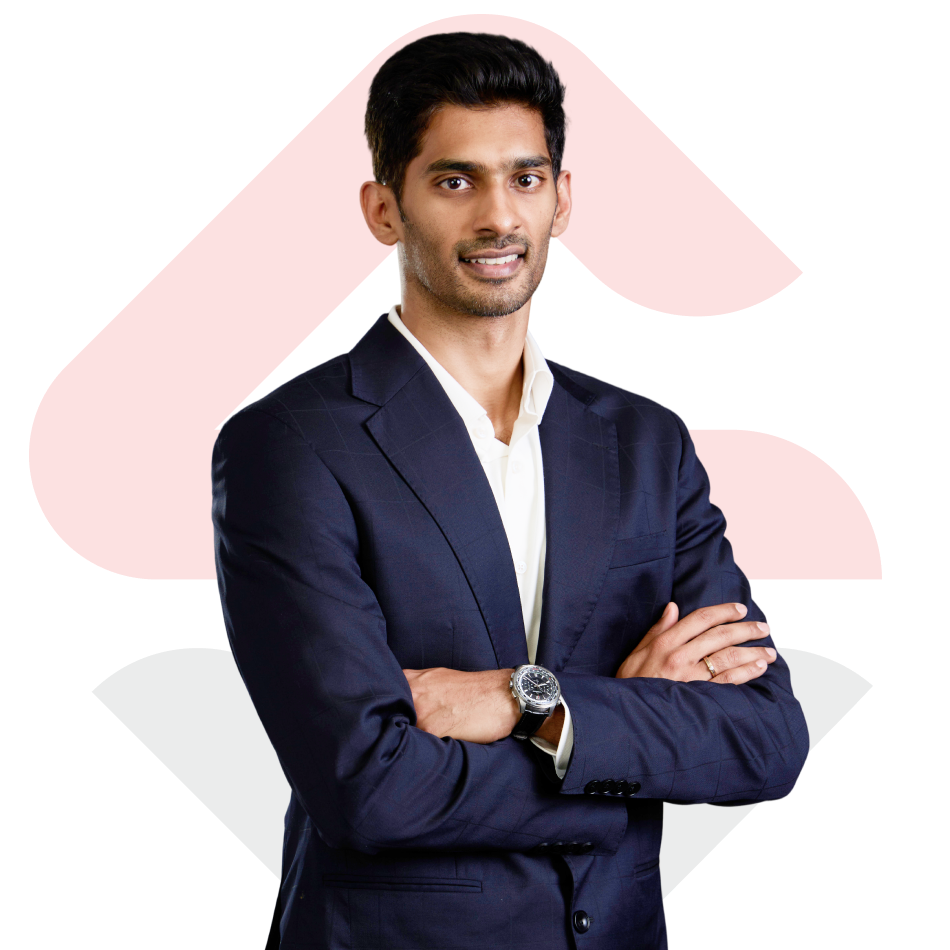
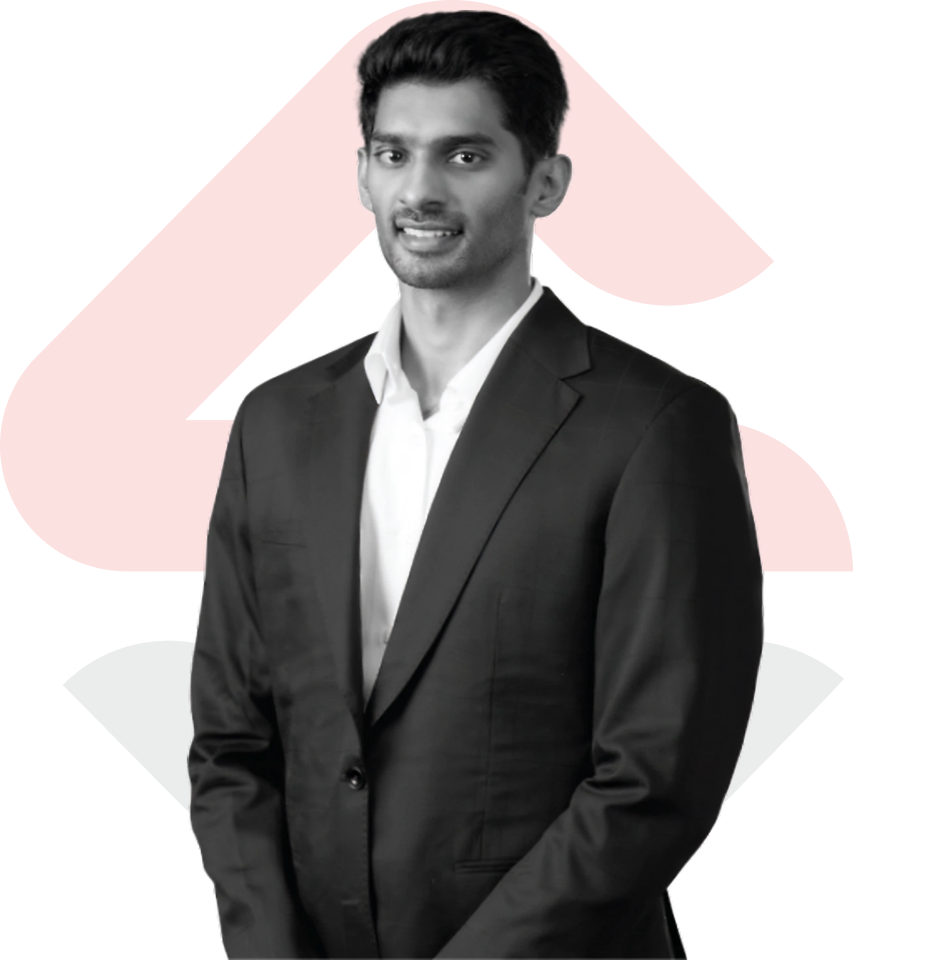
feedback changes

diff --git a/src/app/globals.css b/src/app/globals.css
@@ -4610,6 +4610,7 @@ feature */
     color: #7B7F80; */
     margin: 0;
     padding: 0px 50px;
+    
 }
 
 .mission-vision-text li {
@@ -4677,6 +4678,7 @@ feature */
     .mission-vision-text {
         font-size: 16px;
         padding: 0px;
+        list-style:none;
     }
 }
 
@@ -6179,6 +6181,129 @@ p#builtForSpacesHeading {
         background-color: #ff4d4d;
     }
 
+    .category-carousel-section {
+        background-color: #FFFFFF;
+        padding: 60px 0 40px;
+    }
+    .category-carousel-wrapper {
+        max-width: 100%;
+        margin: 0 auto;
+    }
+    .category-grid {
+        width: 100%;
+        gap: 20px;
+        margin-top: 40px;
+    }
+    .desktop-category-grid {
+        grid-template-columns: repeat(5, minmax(0, 1fr));
+    }
+    .mobile-category-grid {
+        grid-template-columns: repeat(2, minmax(0, 1fr));
+    }
+    .category-card {
+        width: 100%;
+        aspect-ratio: 1 / 1;
+        border-radius: 18px;
+        overflow: hidden;
+        position: relative;
+        box-shadow: 0 10px 24px rgba(0, 0, 0, 0.12);
+        transition: transform 0.3s ease, box-shadow 0.3s ease;
+    }
+    .category-card:hover {
+        transform: translateY(-4px);
+        box-shadow: 0 16px 30px rgba(0, 0, 0, 0.16);
+    }
+    .category-image-container {
+        width: 100%;
+        height: 100%;
+        position: relative;
+        overflow: hidden;
+    }
+    .category-image {
+        width: 100%;
+        height: 100%;
+        object-fit: cover;
+        transition: transform 0.4s ease;
+    }
+    .category-card:hover .category-image {
+        transform: scale(1.03);
+    }
+    .category-tag {
+        position: absolute;
+        bottom: 0;
+        left: 0;
+        right: 0;
+        background: rgba(0, 0, 0, 0.55);
+        color: #fff;
+        padding: 12px 16px;
+        font-size: 14px;
+        font-weight: 600;
+        text-align: center;
+        text-transform: uppercase;
+        letter-spacing: 0.6px;
+    }
+    .category-card.active {
+        opacity: 1;
+        box-shadow: 0 12px 24px rgba(0, 0, 0, 0.18);
+    }
+    .category-image-container {
+        width: 100%;
+        height: 100%;
+        position: relative;
+        overflow: hidden;
+    }
+    .category-image {
+        width: 100%;
+        height: 100%;
+        object-fit: cover;
+        display: block;
+    }
+    .category-tag {
+        position: absolute;
+        top: 0;
+        left: 0;
+        background-color: #dc3545;
+        color: #ffffff;
+        padding: 10px 16px;
+        border-radius: 0 0 8px 0;
+        font-size: 14px;
+        font-weight: 600;
+        font-family: 'DM Sans', sans-serif;
+        z-index: 2;
+    }
+    .category-carousel-mobile {
+        display: block;
+        margin-top: 32px;
+    }
+    .category-carousel-mobile-controls {
+        display: flex;
+        align-items: center;
+        justify-content: space-between;
+        gap: 12px;
+    }
+    .category-carousel-mobile-wrapper {
+        display: flex;
+        gap: 12px;
+        width: calc(100% - 120px);
+    }
+    .category-carousel-mobile .category-card {
+        width: 46%;
+        height: 220px;
+        box-shadow: 0 4px 12px rgba(0, 0, 0, 0.14);
+    }
+    .category-carousel-mobile .category-card:not(.mobile-visible) {
+        display: none;
+    }
+    .category-carousel-mobile .category-card:hover,
+    .category-carousel-mobile .category-card.active:hover,
+    .category-carousel-mobile .category-card.active {
+        transform: none;
+    }
+    .category-carousel-mobile .category-tag {
+        font-size: 14px;
+        padding: 8px 14px;
+    }
+
     .built-for-spaces-scroll-wrapper {
         gap: 20px;
         padding: 0;
@@ -7341,9 +7466,7 @@ p#builtForSpacesHeading {
 }
 
 .image-wrapper {
-    background: white;
-
-    box-shadow: 0 5px 15px rgba(0, 0, 0, 0.05);
+   
     transition: transform 0.3s ease;
 }
 

diff --git a/src/components/ProductSeriesTemplate.js b/src/components/ProductSeriesTemplate.js
@@ -16,6 +16,8 @@ export default function ProductSeriesTemplate({
   spaces,
   personalisationHead,
   personalisationChoices,
+  personalisationChoicesDuplicate,
+  categories,
   safetyIntroText,
   safetyFeatures,
 }) {
@@ -43,6 +45,13 @@ export default function ProductSeriesTemplate({
       : seriesName && seriesName.toLowerCase().includes("vl")
       ? defaultVLChoices
       : defaultSLChoices;
+
+  const duplicateChoices =
+    personalisationChoicesDuplicate && personalisationChoicesDuplicate.length
+      ? personalisationChoicesDuplicate
+      : choices;
+
+  const categoryItems = categories && categories.length ? categories : [];
 
   // 1. Initial GSAP state setup (runs instantly on mount to prevent any flash/glitch)
   useLayoutEffect(() => {
@@ -334,6 +343,47 @@ export default function ProductSeriesTemplate({
         </div>
       </section>
 
+      {/* Category Carousel Section */}
+      {categoryItems.length > 0 && (
+        <section className="category-carousel-section">
+          <div className="container-fluid">
+            <div className="category-carousel-wrapper">
+              <div className="built-for-spaces-header">
+                <p className="section-2-tagline reveal-heading" data-reveal-delay="0.6">
+                  <span className="section-2-dot" aria-hidden="true"></span>
+                  Categories
+                </p>
+                <h2 className="built-for-spaces-heading reveal-heading" data-reveal-delay="0.6">
+                  Explore By Category
+                </h2>
+              </div>
+
+              <div className="category-grid desktop-category-grid d-none d-md-grid">
+                {categoryItems.map((item, idx) => (
+                  <div className="category-card" key={idx}>
+                    <div className="category-image-container">
+                      <img src={item.image} alt={item.title} className="category-image" />
+                      <div className="category-tag">{item.title}</div>
+                    </div>
+                  </div>
+                ))}
+              </div>
+
+              <div className="category-grid mobile-category-grid d-grid d-md-none">
+                {categoryItems.map((item, idx) => (
+                  <div className="category-card" key={idx}>
+                    <div className="category-image-container">
+                      <img src={item.image} alt={item.title} className="category-image" />
+                      <div className="category-tag">{item.title}</div>
+                    </div>
+                  </div>
+                ))}
+              </div>
+            </div>
+          </div>
+        </section>
+      )}
+
       {/* Personalisation Choices Section */}
       <section className="personalisation-choices-section container-fluid">
         <div className="personalisation-choices">
@@ -438,7 +488,7 @@ export default function ProductSeriesTemplate({
 
           <div className="personalisation-carousel page-width d-none d-md-block" style={{ marginTop: "40px" }}>
             <div className="row justify-content-center">
-              {choices.map((choice, idx) => (
+              {duplicateChoices.map((choice, idx) => (
                 <div
                   className="col-lg-4 col-md-6 mb-4 choice-card-anim"
                   key={`duplicate-${idx}`}
@@ -449,9 +499,9 @@ export default function ProductSeriesTemplate({
                 >
                   <div className="choice-card">
                     <div className="image-wrapper">
-                      <img src={choice.image} alt={choice.title} className="choice-img" />
+                      <img src={choice.image} alt={choice.title || `choice-${idx}`} className="choice-img" />
                     </div>
-                    <p className="choice-title">{choice.title}</p>
+                    {choice.title && <p className="choice-title">{choice.title}</p>}
                   </div>
                 </div>
               ))}

diff --git a/src/app/products/slseries/page.js b/src/app/products/slseries/page.js
@@ -40,20 +40,34 @@ const slSpecifications = [
 const slSpaces = [
   { image: "/img/sl-villas.png", title: "Villas" },
   { image: "/img/sl-Duplexes.png", title: "Duplexes" },
-  { image: "/img/sl-Retrofits.png", title: "Retrofits" },
   { image: "/img/sl-clinics.png", title: "Clinics" }
+];
+
+const slCategories = [
+  { image: "/img/sl-villas.png", title: "Villas" },
+  { image: "/img/sl-Duplexes.png", title: "Duplexes" },
+  { image: "/img/sl-clinics.png", title: "Clinics" },
+  { image: "/img/sl-Retrofits.png", title: "Retrofits" },
+  { image: "/img/vl-Office.jpeg", title: "Offices" },
+  { image: "/img/vl-Boutique.jpeg", title: "Boutiques" },
+  { image: "/img/vl-upscale-homes.jpeg", title: "Upscale Homes" },
+  { image: "/img/urbanx.png", title: "Urban Spaces" }
 ];
 
 const slPersonalisationhead = [
   "With the SL Series, you don't just choose an elevator, you shape it. Choose cabin materials, textures, lighting and panel finishes to suit your home. Engineered as a Home/Villas lift, the SL Series installs without a separate machine room, even in existing structures."
-];
+]
 
 const slPersonalisation = [
-  { image: "/img/stainless.png", title: "Stainless steel or mild steel (MS) cabin finishes" },
-  { image: "/img/automatic.png", title: "Convert manual lifts to automatic lifts." },
-  { image: "/img/funtional.png", title: "Functional and aesthetic lighting options" }
+  { image: "/img/glasscabin.jpeg" },
+  { image: "/img/stainlesssteel.png" },
+  { image: "/img/designerrosegold.png" }
 ];
-
+const slPersonalisationDuplicate = [
+  { image: "/img/doortype-1.jpeg" },
+  { image: "/img/doortype-2.jpeg" },
+  { image: "/img/doortype-3.jpeg" }
+];
 const slSafetyFeatures = [
   {
     icon: "/img/sensor-icon.png",
@@ -93,6 +107,8 @@ export default function SLSeriesPage() {
       specifications={slSpecifications}
       spaces={slSpaces}
       personalisationChoices={slPersonalisation}
+      personalisationChoicesDuplicate={slPersonalisationDuplicate}
+      categories={slCategories}
       personalisationHead={slPersonalisationhead}
       safetyIntroText=""
       safetyFeatures={slSafetyFeatures}

diff --git a/src/app/about/AboutClient.js b/src/app/about/AboutClient.js
@@ -394,7 +394,7 @@ With over 3,500 + elevators installed, we continue to grow through quality engin
                 
               </h2>
               <ul className="mission-vision-text reveal-heading" id="missionList" data-reveal-delay="0.8">
-                <li>
+                <li style={{ listStyleType: "none" }}>
                   <p>
                   To build a trusted, future-ready mobility brand that elevates everyday living through safety, quality, and engineering excellence.
                   </p>
@@ -548,14 +548,15 @@ With over 3,500 + elevators installed, we continue to grow through quality engin
               <div className="col-lg-6">
                 <article className="about-cert-card reveal-heading" id="certCard2" data-reveal-delay="1.1">
                   <div className="about-cert-media">
+                    
                     <img
-                      src="/img/certi-1.png"
+                      src="/img/certi-3.jpeg"
                       alt="Quality Certificate"
                       className="about-cert-img"
                     />
                     <br></br>
                      <img
-                      src="/img/certi-3.jpeg"
+                      src="/img/certi-1.png"
                       alt="Quality Certificate"
                       className="about-cert-img"
                     />

diff --git a/src/app/HomeClient.js b/src/app/HomeClient.js
@@ -466,7 +466,7 @@ export default function HomeClient() {
       <section className="hero-section">
         <picture>
           <source media="(max-width: 767px)" srcSet="/img/hero-product.jpeg" />
-          <img src="/img/hero-bg.png" alt="Hero Background" className="hero-bg" id="heroBg" />
+          <img src="/img/hero-bg.jpeg" alt="Hero Background" className="hero-bg" id="heroBg" />
         </picture>
         <div className="hero-content" id="heroContent">
           <h2 className="text-white">